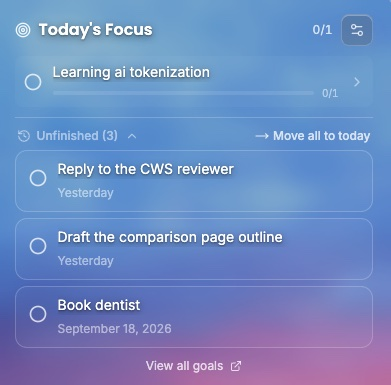
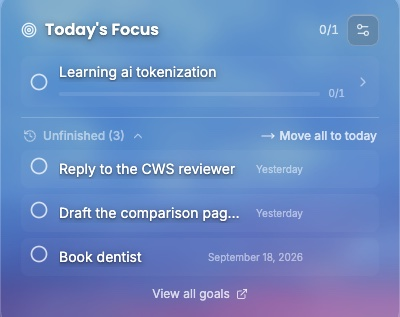
feat(goals): match the unfinished rows to compact view density

diff --git a/packages/app/src/components/UnfinishedTasks.tsx b/packages/app/src/components/UnfinishedTasks.tsx
@@ -66,9 +66,62 @@ export const UnfinishedBanner: React.FC<{ className?: string }> = ({ className }
   );
 };
 
-/** The home widget's Unfinished group; UnfinishedBanner is the goals-page counterpart. */
-export const UnfinishedTasks: React.FC = () => {
+// Compact matches CompactGoalRow: borderless, one line, the date as a muted suffix.
+const ROW_CLASS = {
+  full: 'group flex items-center gap-2.5 px-3 py-2 rounded-xl border border-border bg-surface-variant/30 hover:border-primary-300 transition-all',
+  compact:
+    'group flex items-center gap-2.5 px-2 py-1.5 rounded-lg bg-surface-variant/30 hover:bg-surface-variant/50 transition-colors',
+};
+
+function UnfinishedRow({ task, compact }: { task: Goal; compact: boolean }): React.ReactElement {
   const { toggleTask, moveTaskToToday, deleteTask } = useGoalStore();
+  const dateLabel = getRelativeDateLabel(task.date);
+
+  return (
+    <div className={compact ? ROW_CLASS.compact : ROW_CLASS.full}>
+      <button
+        type="button"
+        onClick={() => toggleTask(task.id)}
+        className="flex-shrink-0 focus:outline-none focus-visible:ring-2 focus-visible:ring-primary-500 rounded-full"
+        aria-label={`Mark "${task.text}" complete`}
+      >
+        <AnimatedCheckbox checked={task.completed} size="md" />
+      </button>
+      {compact ? (
+        <>
+          <span className="min-w-0 flex-1 truncate text-sm text-primary">{task.text}</span>
+          <span className="flex-shrink-0 text-[10px] text-tertiary">{dateLabel}</span>
+        </>
+      ) : (
+        <div className="flex-1 min-w-0">
+          <span className="block truncate text-sm text-primary">{task.text}</span>
+          <span className="text-xs text-tertiary">{dateLabel}</span>
+        </div>
+      )}
+      <button
+        type="button"
+        onClick={() => moveTaskToToday(task.id)}
+        className="flex-shrink-0 p-1 text-secondary hover:text-primary-600 hover:bg-primary-50 rounded transition-colors opacity-0 group-hover:opacity-100 focus:opacity-100"
+        aria-label={`Move "${task.text}" to today`}
+        title="Move to today"
+      >
+        <MoveRight className="w-4 h-4" />
+      </button>
+      <button
+        type="button"
+        onClick={() => deleteTask(task.id)}
+        className="flex-shrink-0 p-1 text-secondary hover:text-red-500 rounded transition-colors opacity-0 group-hover:opacity-100 focus:opacity-100"
+        aria-label={`Delete "${task.text}"`}
+        title="Delete"
+      >
+        <Trash2 className="w-4 h-4" />
+      </button>
+    </div>
+  );
+}
+
+/** The home widget's Unfinished group; UnfinishedBanner is the goals-page counterpart. */
+export const UnfinishedTasks: React.FC<{ compact?: boolean }> = ({ compact = false }) => {
   const { unfinished, moveAllToToday } = useUnfinishedTasks();
   // null = never toggled, so the row count decides until the user picks.
   const [expandedByUser, setExpandedByUser] = useState<boolean | null>(null);
@@ -103,41 +156,7 @@ export const UnfinishedTasks: React.FC = () => {
       {expanded && (
         <>
           {unfinished.map((task) => (
-            <div
-              key={task.id}
-              className="group flex items-center gap-2.5 px-3 py-2 rounded-xl border border-border bg-surface-variant/30 hover:border-primary-300 transition-all"
-            >
-              <button
-                type="button"
-                onClick={() => toggleTask(task.id)}
-                className="flex-shrink-0 focus:outline-none focus-visible:ring-2 focus-visible:ring-primary-500 rounded-full"
-                aria-label={`Mark "${task.text}" complete`}
-              >
-                <AnimatedCheckbox checked={task.completed} size="md" />
-              </button>
-              <div className="flex-1 min-w-0">
-                <span className="block truncate text-sm text-primary">{task.text}</span>
-                <span className="text-xs text-tertiary">{getRelativeDateLabel(task.date)}</span>
-              </div>
-              <button
-                type="button"
-                onClick={() => moveTaskToToday(task.id)}
-                className="flex-shrink-0 p-1 text-secondary hover:text-primary-600 hover:bg-primary-50 rounded transition-colors opacity-0 group-hover:opacity-100 focus:opacity-100"
-                aria-label={`Move "${task.text}" to today`}
-                title="Move to today"
-              >
-                <MoveRight className="w-4 h-4" />
-              </button>
-              <button
-                type="button"
-                onClick={() => deleteTask(task.id)}
-                className="flex-shrink-0 p-1 text-secondary hover:text-red-500 rounded transition-colors opacity-0 group-hover:opacity-100 focus:opacity-100"
-                aria-label={`Delete "${task.text}"`}
-                title="Delete"
-              >
-                <Trash2 className="w-4 h-4" />
-              </button>
-            </div>
+            <UnfinishedRow key={task.id} task={task} compact={compact} />
           ))}
           <a
             href="#goals"

diff --git a/packages/app/src/components/GoalsList.test.tsx b/packages/app/src/components/GoalsList.test.tsx
@@ -529,6 +529,35 @@ describe('GoalsList - Unfinished group', () => {
     expect(screen.queryByRole('link', { name: /View all goals/ })).not.toBeInTheDocument();
   });
 
+  it('uses borderless rows in compact view, keeping every row action', () => {
+    const [stale] = buildUnfinishedTasks(1);
+    vi.mocked(useGoalStore).mockImplementation(
+      createGoalStoreMock(createNoTodayTasksStore([stale]))
+    );
+
+    render(<GoalsList viewMode="compact" />);
+
+    const row = screen.getByRole('button', { name: `Mark "${stale.text}" complete` }).parentElement;
+    expect(row).not.toHaveClass('border');
+    expect(screen.getByText('Yesterday')).toBeInTheDocument();
+    expect(
+      screen.getByRole('button', { name: `Move "${stale.text}" to today` })
+    ).toBeInTheDocument();
+    expect(screen.getByRole('button', { name: `Delete "${stale.text}"` })).toBeInTheDocument();
+  });
+
+  it('uses bordered card rows in full view', () => {
+    const [stale] = buildUnfinishedTasks(1);
+    vi.mocked(useGoalStore).mockImplementation(
+      createGoalStoreMock(createNoTodayTasksStore([stale]))
+    );
+
+    render(<GoalsList />);
+
+    const row = screen.getByRole('button', { name: `Mark "${stale.text}" complete` }).parentElement;
+    expect(row).toHaveClass('border');
+  });
+
   it('starts collapsed to the count when more than five are unfinished', () => {
     const unfinished = buildUnfinishedTasks(6);
     vi.mocked(useGoalStore).mockImplementation(

diff --git a/packages/app/src/components/GoalsList.tsx b/packages/app/src/components/GoalsList.tsx
@@ -528,7 +528,7 @@ export const GoalsList: React.FC<GoalsListProps> = ({ viewMode = 'full' }) => {
         </div>
       )}
 
-      {settings.showIncompleteGoals && <UnfinishedTasks />}
+      {settings.showIncompleteGoals && <UnfinishedTasks compact={viewMode === 'compact'} />}
 
       {/* Upcoming — revealed from the ⚙ menu (both list views) */}
       {settings.showUpcomingGoals && <UpcomingTasks showTrigger={false} />}
